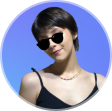
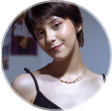
alterar foto e alt

diff --git a/script.js b/script.js
@@ -16,14 +16,16 @@ function toggleMode() {
   }
 
   if(html.classList.contains("light")) {
-    img.setAttribute( // modo claro
+    img.setAttribute(
+      // modo claro
       "alt",
-      "Foto de Michele Kluck sorrindo sem os dentes, usando óculos escuro, regata preta, e fundo gradiente azul claro"
+      "Foto de Michele Kluck sorrindo sem os dentes, com uma regata preta, e um fundo desfocado"
     )
   } else { 
-    img.setAttribute( // modo escuro
-    "alt", 
-    "Foto de Michele Kluck sorrindo sem os dentes, sem oculos e regata preta, ee fundo gradiente do branco ao rosa claro."
+    img.setAttribute(
+      // modo escuro
+      "alt",
+      "Foto de Michele Kluck sorrindo sem os dentes, com uma regata preta, e um fundo desfocado."
     )
   }
 }

diff --git a/index.html b/index.html
@@ -13,7 +13,7 @@
   <body>
     <div id="container">
        <div id="profile">
-            <img src="./assets/avatar-michele.png" alt="Foto de Michele Kluck sorrindo sem os dentes, sem oculos e regata preta, ee fundo gradiente do branco ao rosa claro."
+            <img src="./assets/avatar-michele.png" alt="Foto de Michele Kluck sorrindo sem os dentes, com uma regata preta, e um fundo desfocado."
             />
             <p>Michele Kluck</p>
         </div> 
